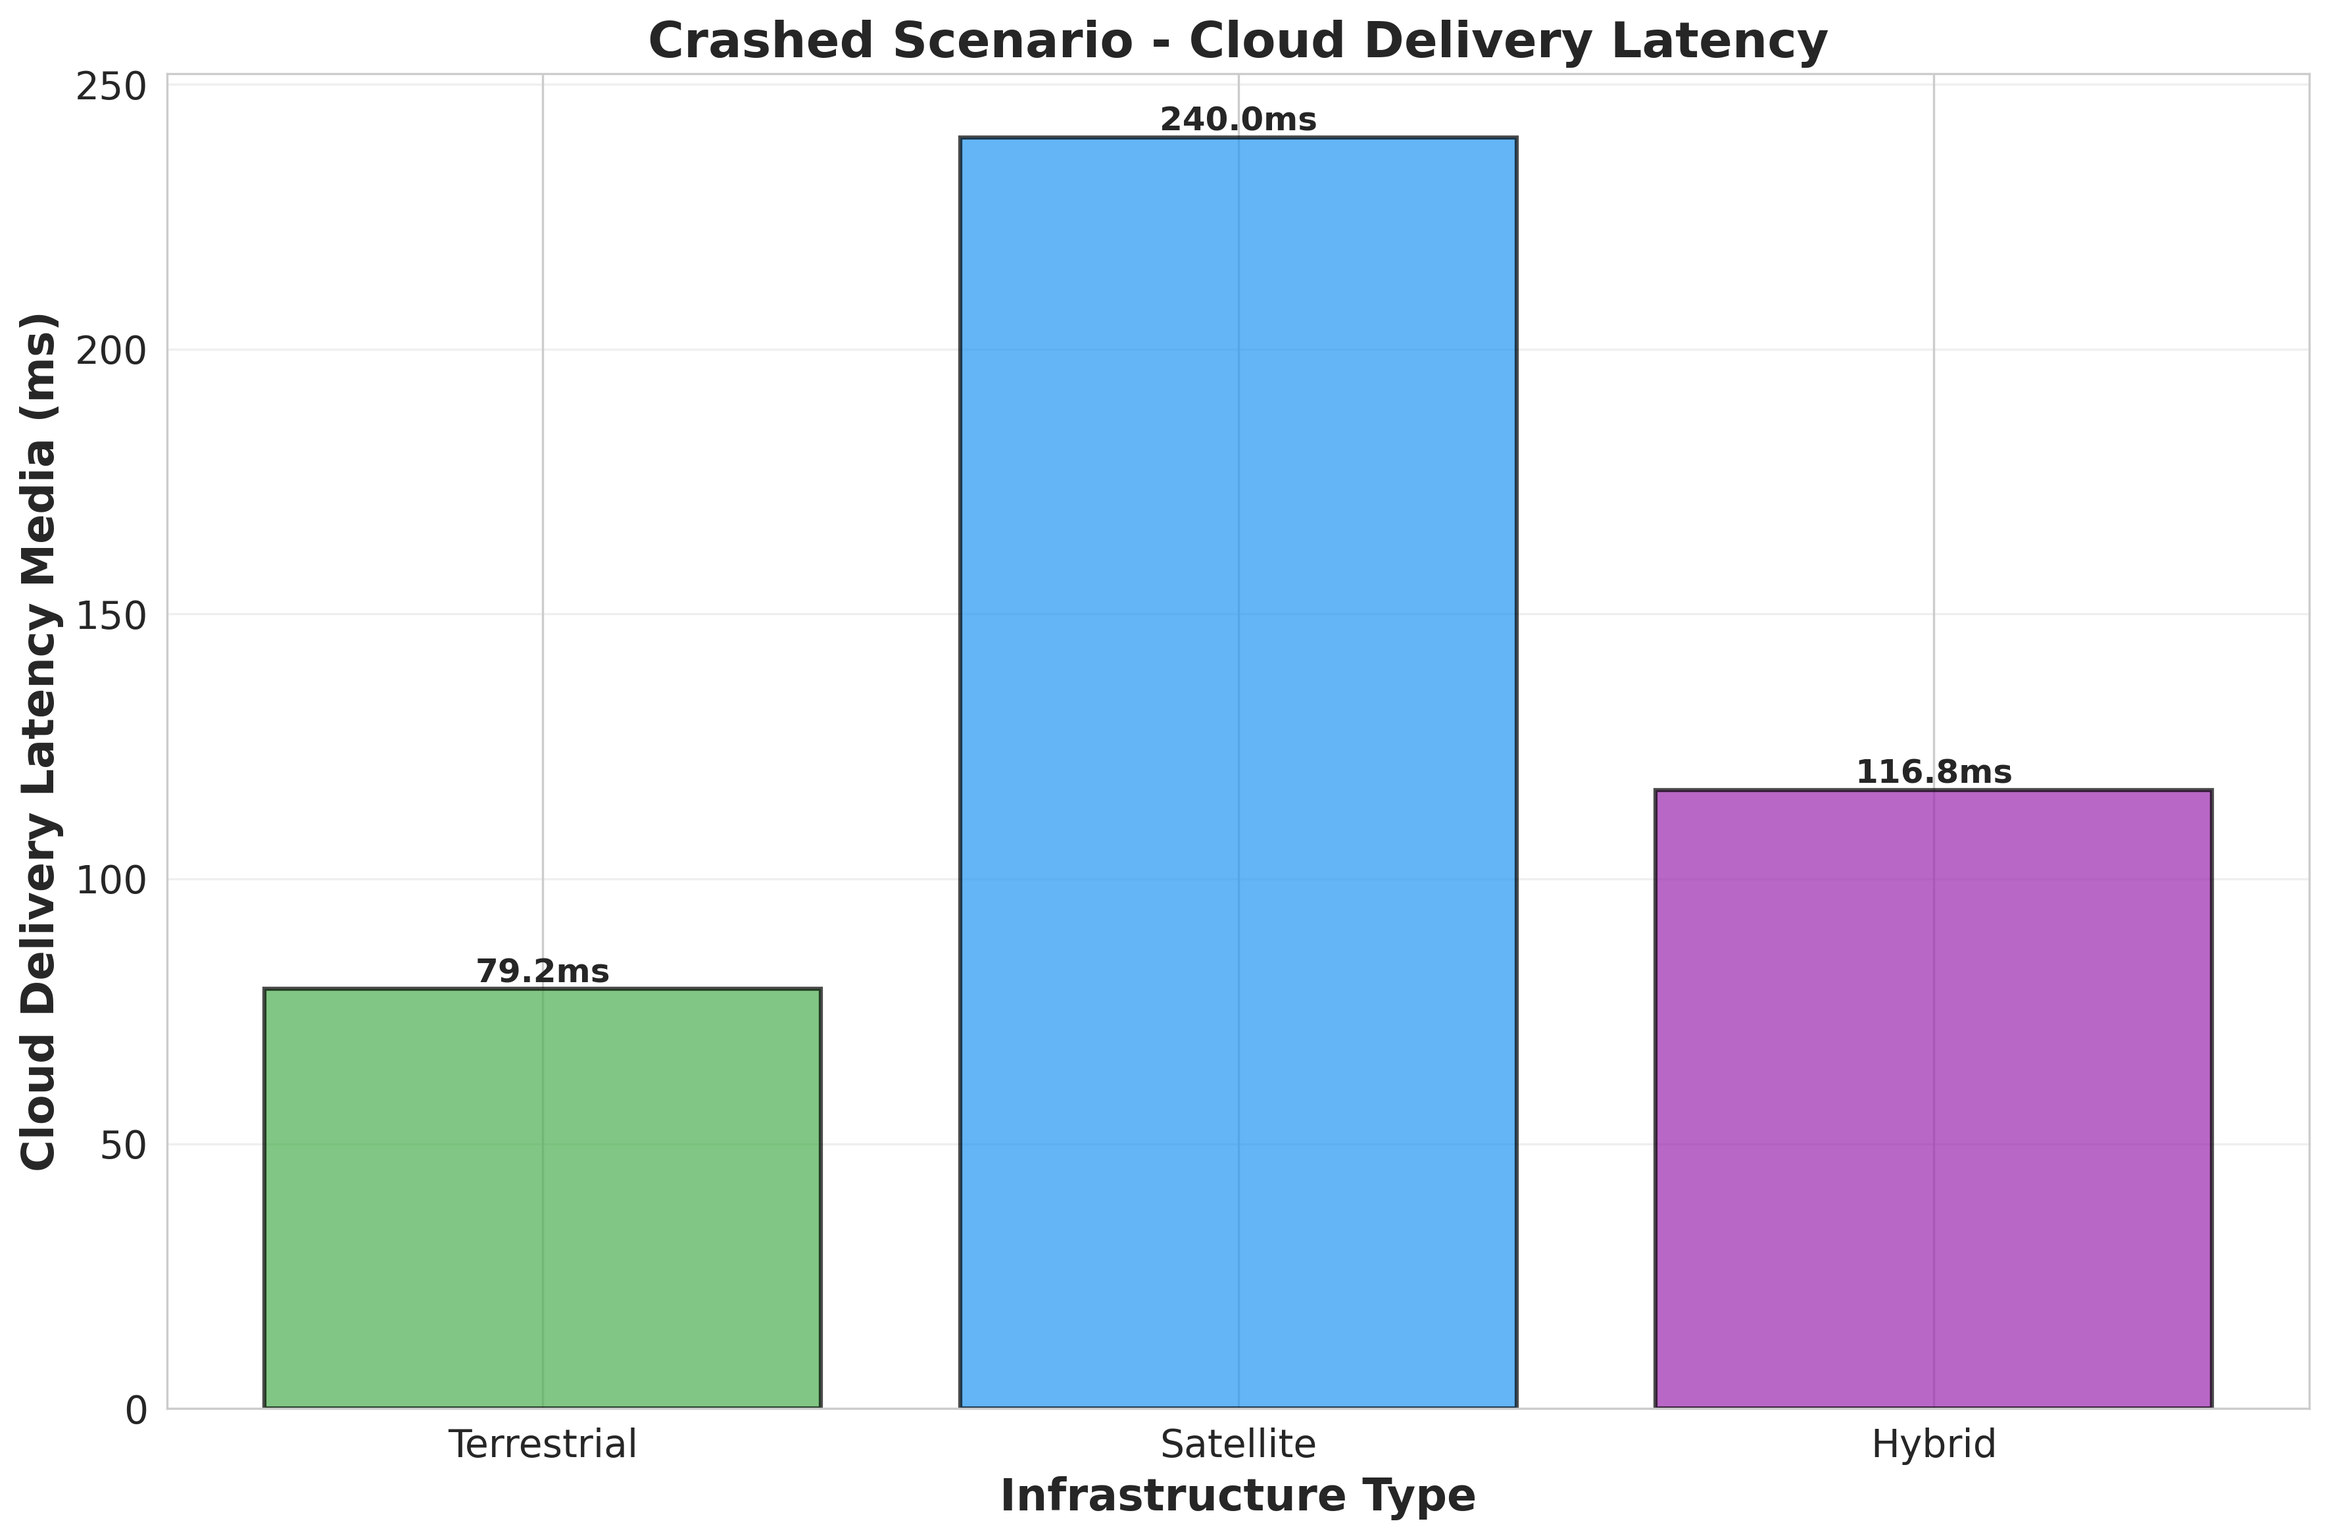
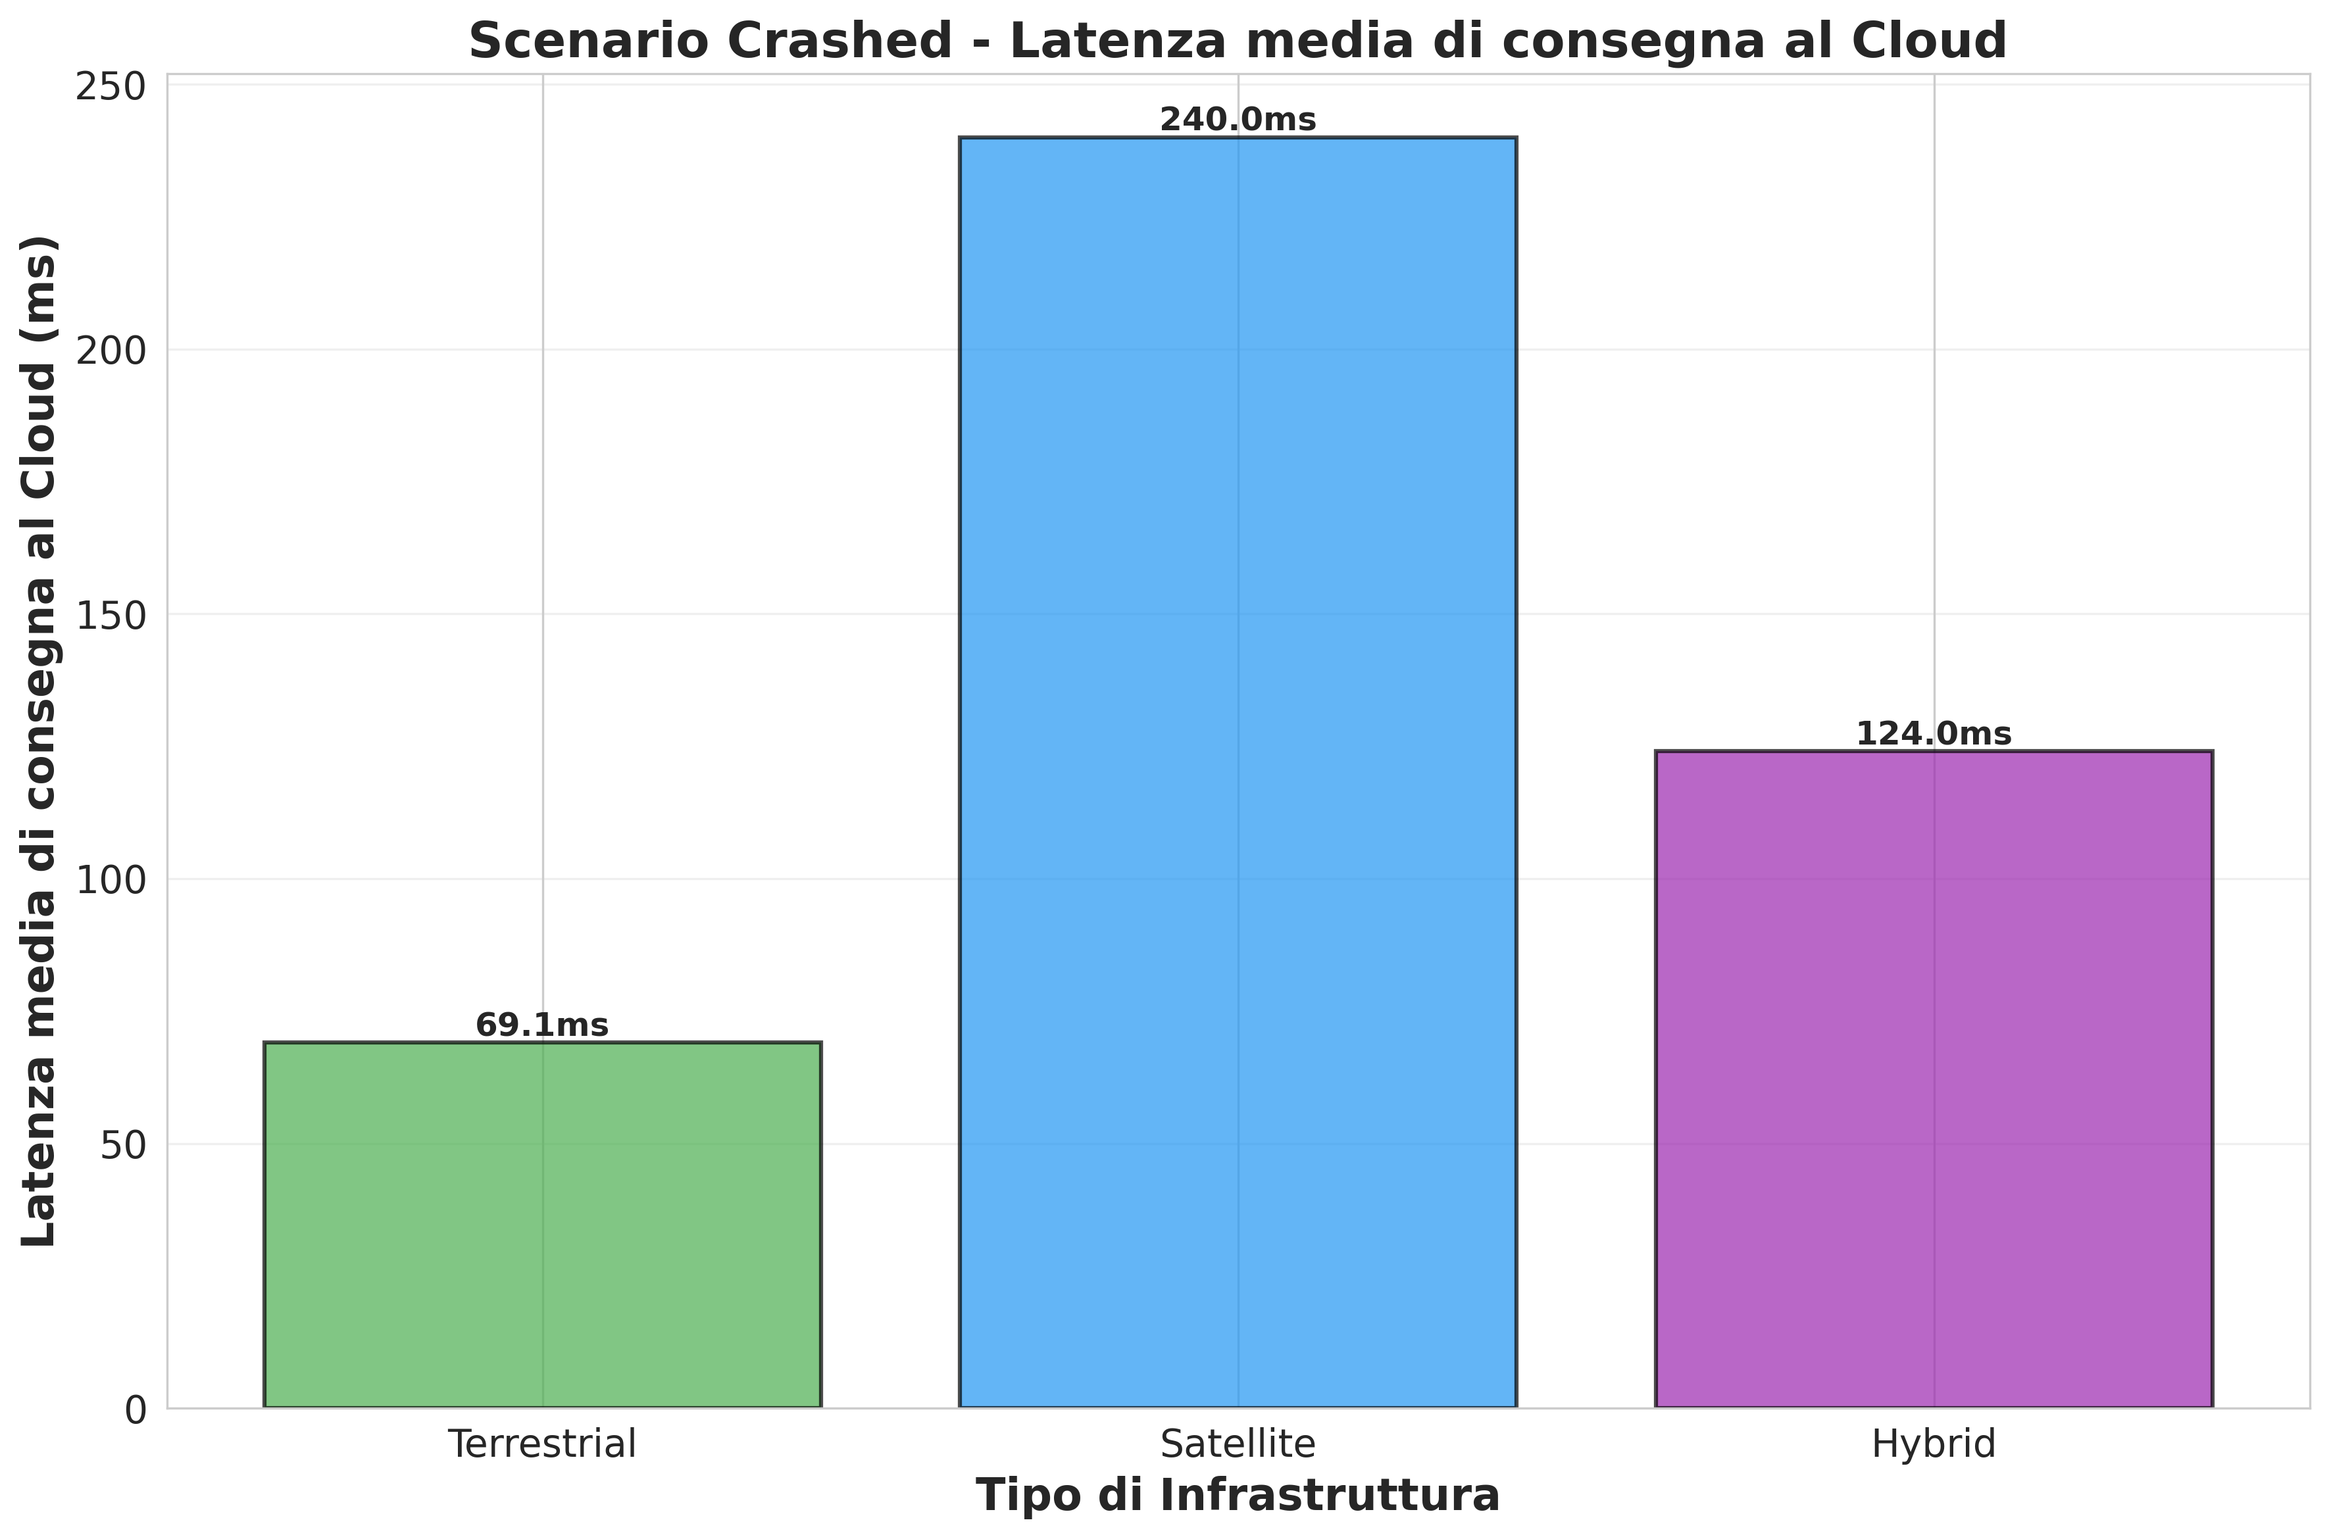
refactor: update plot labels and titles to Italian for improved localization; adjust summary statistics in CSV for accuracy

diff --git a/scenarios/stelvio/analysis/analyze_results.py b/scenarios/stelvio/analysis/analyze_results.py
@@ -468,15 +468,15 @@ class PlotGenerator:
             patch.set_facecolor(color)
             patch.set_alpha(0.7)
         
-        ax.set_ylabel('Reception Delay (ms)', fontsize=16, fontweight='bold')
-        ax.set_xlabel('Infrastructure Type', fontsize=16, fontweight='bold')
-        title = f'{scenario_type} Scenario - DENM Reception Delay' if scenario_type else 'DENM Reception Delay Distribution'
+        ax.set_ylabel('Tempo medio di ricezione (ms)', fontsize=16, fontweight='bold')
+        ax.set_xlabel('Tipo di infrastruttura', fontsize=16, fontweight='bold')
+        title = f'Scenario {scenario_type} - Tempo medio di ricezione DENM' if scenario_type else 'Distribuzione Ritardo di Ricezione DENM'
         ax.set_title(title, fontsize=18, fontweight='bold')
         ax.grid(True, alpha=0.3)
         
         # Add note for Witness scenario explaining the delay includes witness reaction time
         if scenario_type == "Witness":
-            note_text = "Note: Delays include 3000ms witness reaction time\n(message sent 3s after accident)"
+            note_text = "Nota: I tempi includono 3000ms di tempo di reazione del testimone\n(messaggio inviato 3s dopo l'incidente)"
             ax.text(0.02, 0.98, note_text, 
                    transform=ax.transAxes, 
                    fontsize=12, 
@@ -516,16 +516,16 @@ class PlotGenerator:
                    color=ALL_CONFIGS[config]['color'],
                    linewidth=2.5)
         
-        ax.set_xlabel('Reception Delay (ms)', fontsize=16, fontweight='bold')
-        ax.set_ylabel('Cumulative Probability', fontsize=16, fontweight='bold')
-        title = f'{scenario_type} Scenario - Cumulative Distribution' if scenario_type else 'Cumulative Distribution'
+        ax.set_xlabel('Tempo di ricezione (ms)', fontsize=16, fontweight='bold')
+        ax.set_ylabel('Probabilità cumulativa', fontsize=16, fontweight='bold')
+        title = f'Scenario {scenario_type} - Distribuzione cumulativa' if scenario_type else 'Distribuzione Cumulativa'
         ax.set_title(title, fontsize=18, fontweight='bold')
-        ax.legend(fontsize=14, title='Infrastructure', title_fontsize=15)
+        ax.legend(fontsize=14, title='Infrastruttura', title_fontsize=15)
         ax.grid(True, alpha=0.3)
         
         # Add note for Witness scenario
         if scenario_type == "Witness":
-            note_text = "Note: Delays include 3000ms witness reaction time"
+            note_text = "Nota: I ritardi includono 3000ms di tempo di reazione del testimone"
             ax.text(0.98, 0.02, note_text, 
                    transform=ax.transAxes, 
                    fontsize=12, 
@@ -576,9 +576,9 @@ class PlotGenerator:
         bars = ax.bar(x, means, yerr=errors, capsize=5, 
                       color=colors, alpha=0.7, edgecolor='black', linewidth=1.5)
         
-        ax.set_ylabel('Cloud Delivery Latency Media (ms)', fontsize=16, fontweight='bold')
-        ax.set_xlabel('Infrastructure Type', fontsize=16, fontweight='bold')
-        title = f'{scenario_type} Scenario - Cloud Delivery Latency' if scenario_type else 'Cloud Delivery Latency'
+        ax.set_ylabel('Latenza media di consegna al Cloud (ms)', fontsize=16, fontweight='bold')
+        ax.set_xlabel('Tipo di Infrastruttura', fontsize=16, fontweight='bold')
+        title = f'Scenario {scenario_type} - Latenza media di consegna al Cloud' if scenario_type else 'Latenza di Consegna al Cloud'
         ax.set_title(title, fontsize=18, fontweight='bold')
         ax.set_xticks(x)
         ax.set_xticklabels(labels, rotation=0, ha='center', fontsize=14)
@@ -638,10 +638,10 @@ class PlotGenerator:
         
         x = np.arange(len(labels))
         bars = ax.bar(x, pdrs, color=colors, alpha=0.7, edgecolor='black', linewidth=1.5)
-        
-        ax.set_ylabel('Packet Delivery Ratio (%)', fontsize=16, fontweight='bold')
-        ax.set_xlabel('Infrastructure Type', fontsize=16, fontweight='bold')
-        ax.set_title('Packet Delivery Ratio (Vehicles in Coverage)', fontsize=18, fontweight='bold')
+
+        ax.set_ylabel('Packet Delivery Ratio (PDR) (%)', fontsize=16, fontweight='bold')
+        ax.set_xlabel('Tipo di Infrastruttura', fontsize=16, fontweight='bold')
+        ax.set_title('Packet Delivery Ratio (PDR) - Veicoli in Copertura', fontsize=18, fontweight='bold')
         ax.set_xticks(x)
         ax.set_xticklabels(labels, rotation=0, ha='center', fontsize=14)
         ax.set_ylim([0, 105])
@@ -700,9 +700,9 @@ class PlotGenerator:
         x = np.arange(len(labels))
         bars = ax.bar(x, coverages, color=colors, alpha=0.7, edgecolor='black', linewidth=1.5)
         
-        ax.set_ylabel('Infrastructure Coverage (%)', fontsize=16, fontweight='bold')
-        ax.set_xlabel('Infrastructure Type', fontsize=16, fontweight='bold')
-        ax.set_title('Infrastructure Coverage (All Scenarios)', fontsize=18, fontweight='bold')
+        ax.set_ylabel('Copertura (%)', fontsize=16, fontweight='bold')
+        ax.set_xlabel('Tipo di Infrastruttura', fontsize=16, fontweight='bold')
+        ax.set_title('Copertura (Tutti gli Scenari)', fontsize=18, fontweight='bold')
         ax.set_xticks(x)
         ax.set_xticklabels(labels, rotation=0, ha='center', fontsize=14)
         ax.set_ylim([0, 105])
@@ -726,7 +726,7 @@ class PlotGenerator:
     def plot_infrastructure_comparison(self, configs: List[str], scenario_type: str):
         """Detailed comparison of infrastructure types for a single scenario type"""
         fig, axes = plt.subplots(2, 3, figsize=(18, 12))
-        fig.suptitle(f'{scenario_type} Scenario - Infrastructure Comparison (Terrestrial vs Satellite vs Hybrid)', 
+        fig.suptitle(f'Scenario {scenario_type} - Confronto Infrastrutture (Terrestre vs Satellite vs Ibrido)', 
                      fontsize=18, fontweight='bold')
         
         # Colors for each infrastructure
@@ -750,16 +750,16 @@ class PlotGenerator:
             ax.hist(delays, bins=50, alpha=0.6, label=infra, 
                    color=infra_colors[infra], edgecolor='black')
         
-        ax.set_xlabel('Reception Delay (ms)', fontsize=14)
-        ax.set_ylabel('Frequency', fontsize=14)
-        ax.set_title('Reception Delay Distribution', fontsize=16, fontweight='bold')
+        ax.set_xlabel('Tempi di ricezione (ms)', fontsize=14)
+        ax.set_ylabel('Frequenza', fontsize=14)
+        ax.set_title('Distribuzione della ricezione', fontsize=16, fontweight='bold')
         ax.legend(fontsize=12)
         ax.grid(True, alpha=0.3)
         ax.tick_params(axis='both', labelsize=12)
         
         # Add note for Witness scenario
         if scenario_type == "Witness":
-            ax.text(0.98, 0.98, "Includes +3s\nwitness delay", 
+            ax.text(0.98, 0.98, "Include +3s\nritardo testimone", 
                    transform=ax.transAxes, 
                    fontsize=10, 
                    verticalalignment='top',
@@ -782,17 +782,17 @@ class PlotGenerator:
             infra = ALL_CONFIGS[config]['infra']
             ax.plot(sorted_delays, cdf, label=infra, 
                    color=infra_colors[infra], linewidth=2.5)
-        
-        ax.set_xlabel('Reception Delay (ms)', fontsize=14)
+
+        ax.set_xlabel('Tempi di ricezione (ms)', fontsize=14)
         ax.set_ylabel('CDF', fontsize=14)
-        ax.set_title('Cumulative Distribution Function', fontsize=16, fontweight='bold')
+        ax.set_title('Funzione di distribuzione cumulativa', fontsize=16, fontweight='bold')
         ax.legend(fontsize=12)
         ax.grid(True, alpha=0.3)
         ax.tick_params(axis='both', labelsize=12)
         
         # Add note for Witness scenario
         if scenario_type == "Witness":
-            ax.text(0.02, 0.98, "Includes +3s\nwitness delay", 
+            ax.text(0.02, 0.98, "Include +3s\nritardo testimone", 
                    transform=ax.transAxes, 
                    fontsize=10, 
                    verticalalignment='top',
@@ -823,8 +823,8 @@ class PlotGenerator:
                 patch.set_facecolor(color)
                 patch.set_alpha(0.7)
         
-        ax.set_ylabel('Reception Delay (ms)', fontsize=14)
-        ax.set_title('Statistical Summary', fontsize=16, fontweight='bold')
+        ax.set_ylabel('Tempo di ricezione (ms)', fontsize=14)
+        ax.set_title('Riepilogo Statistico', fontsize=16, fontweight='bold')
         ax.grid(True, alpha=0.3)
         ax.tick_params(axis='both', labelsize=12)
         
@@ -855,8 +855,8 @@ class PlotGenerator:
                          color=colors_cloud, alpha=0.7, edgecolor='black')
             ax.set_xticks(x)
             ax.set_xticklabels(labels_cloud, fontsize=12)
-            ax.set_ylabel('Cloud Latency (ms)', fontsize=14)
-            ax.set_title('Cloud Delivery Latency', fontsize=16, fontweight='bold')
+            ax.set_ylabel('Latenza media(ms)', fontsize=14)
+            ax.set_title('Latenza media di Consegna al Cloud', fontsize=16, fontweight='bold')
             ax.grid(True, alpha=0.3, axis='y')
             ax.tick_params(axis='y', labelsize=12)
             
@@ -888,7 +888,7 @@ class PlotGenerator:
             ax.set_xticks(x)
             ax.set_xticklabels(labels_pdr, fontsize=12)
             ax.set_ylabel('PDR (%)', fontsize=14)
-            ax.set_title('Packet Delivery Ratio', fontsize=16, fontweight='bold')
+            ax.set_title('Packet Delivery Ratio (PDR)', fontsize=16, fontweight='bold')
             ax.set_ylim([0, 105])
             ax.grid(True, alpha=0.3, axis='y')
             ax.tick_params(axis='y', labelsize=12)
@@ -921,8 +921,8 @@ class PlotGenerator:
             bars = ax.bar(x, coverages, color=colors_cov, alpha=0.7, edgecolor='black')
             ax.set_xticks(x)
             ax.set_xticklabels(labels_cov, fontsize=12)
-            ax.set_ylabel('Coverage (%)', fontsize=14)
-            ax.set_title('Infrastructure Coverage', fontsize=16, fontweight='bold')
+            ax.set_ylabel('Copertura (%)', fontsize=14)
+            ax.set_title('Copertura infrastrutturale', fontsize=16, fontweight='bold')
             ax.set_ylim([0, 105])
             ax.grid(True, alpha=0.3, axis='y')
             ax.tick_params(axis='y', labelsize=12)
@@ -991,7 +991,7 @@ class PlotGenerator:
                        label='Crashed', color='#4CAF50', alpha=0.8, edgecolor='black')
         bars2 = ax.bar(x + width/2, witness_delays_by_infra, width, 
                        label='Witness', color='#FF9800', alpha=0.8, edgecolor='black')
-        
+
         # Add value labels
         for bars in [bars1, bars2]:
             for bar in bars:
@@ -1001,9 +1001,9 @@ class PlotGenerator:
                            f'{height:.0f}ms',
                            ha='center', va='bottom', fontsize=11, fontweight='bold')
         
-        ax.set_ylabel('Mean Reception Delay (ms)', fontsize=16, fontweight='bold')
-        ax.set_xlabel('Infrastructure Type', fontsize=16, fontweight='bold')
-        ax.set_title('Reception Delay: Crashed vs Witness', fontsize=17, fontweight='bold')
+        ax.set_ylabel('Tempo di ricezione(ms)', fontsize=16, fontweight='bold')
+        ax.set_xlabel('Tipo di infrastruttura', fontsize=16, fontweight='bold')
+        ax.set_title('Tempo di ricezione medio: Crashed vs Witness', fontsize=17, fontweight='bold')
         ax.set_xticks(x)
         ax.set_xticklabels(infra_types, fontsize=14)
         ax.legend(fontsize=13, loc='lower right')  # Moved from 'upper left' to avoid overlap
@@ -1011,7 +1011,7 @@ class PlotGenerator:
         ax.tick_params(axis='y', labelsize=13)
         
         # Add note explaining Witness includes 3s reaction delay
-        note_text = "Witness delays include +3000ms\nreaction time"
+        note_text = "I ritardi Witness includono +3000ms\ndi tempo di reazione"
         ax.text(0.02, 0.98, note_text,  # Moved from right to left to avoid legend
                transform=ax.transAxes, 
                fontsize=11, 
@@ -1059,9 +1059,9 @@ class PlotGenerator:
                            f'{height:.0f}ms',
                            ha='center', va='bottom', fontsize=11, fontweight='bold')
         
-        ax.set_ylabel('Mean Cloud Delivery Latency (ms)', fontsize=16, fontweight='bold')
-        ax.set_xlabel('Infrastructure Type', fontsize=16, fontweight='bold')
-        ax.set_title('Cloud Latency: Crashed vs Witness', fontsize=17, fontweight='bold')
+        ax.set_ylabel('Latenza media di Consegna al Cloud (ms)', fontsize=16, fontweight='bold')
+        ax.set_xlabel('Tipo di infrastruttura', fontsize=16, fontweight='bold')
+        ax.set_title('Latenza media Cloud: Crashed vs Witness', fontsize=17, fontweight='bold')
         ax.set_xticks(x)
         ax.set_xticklabels(infra_types, fontsize=14)
         ax.legend(fontsize=13, loc='lower right')  # Moved from 'upper left' to avoid data overlap
